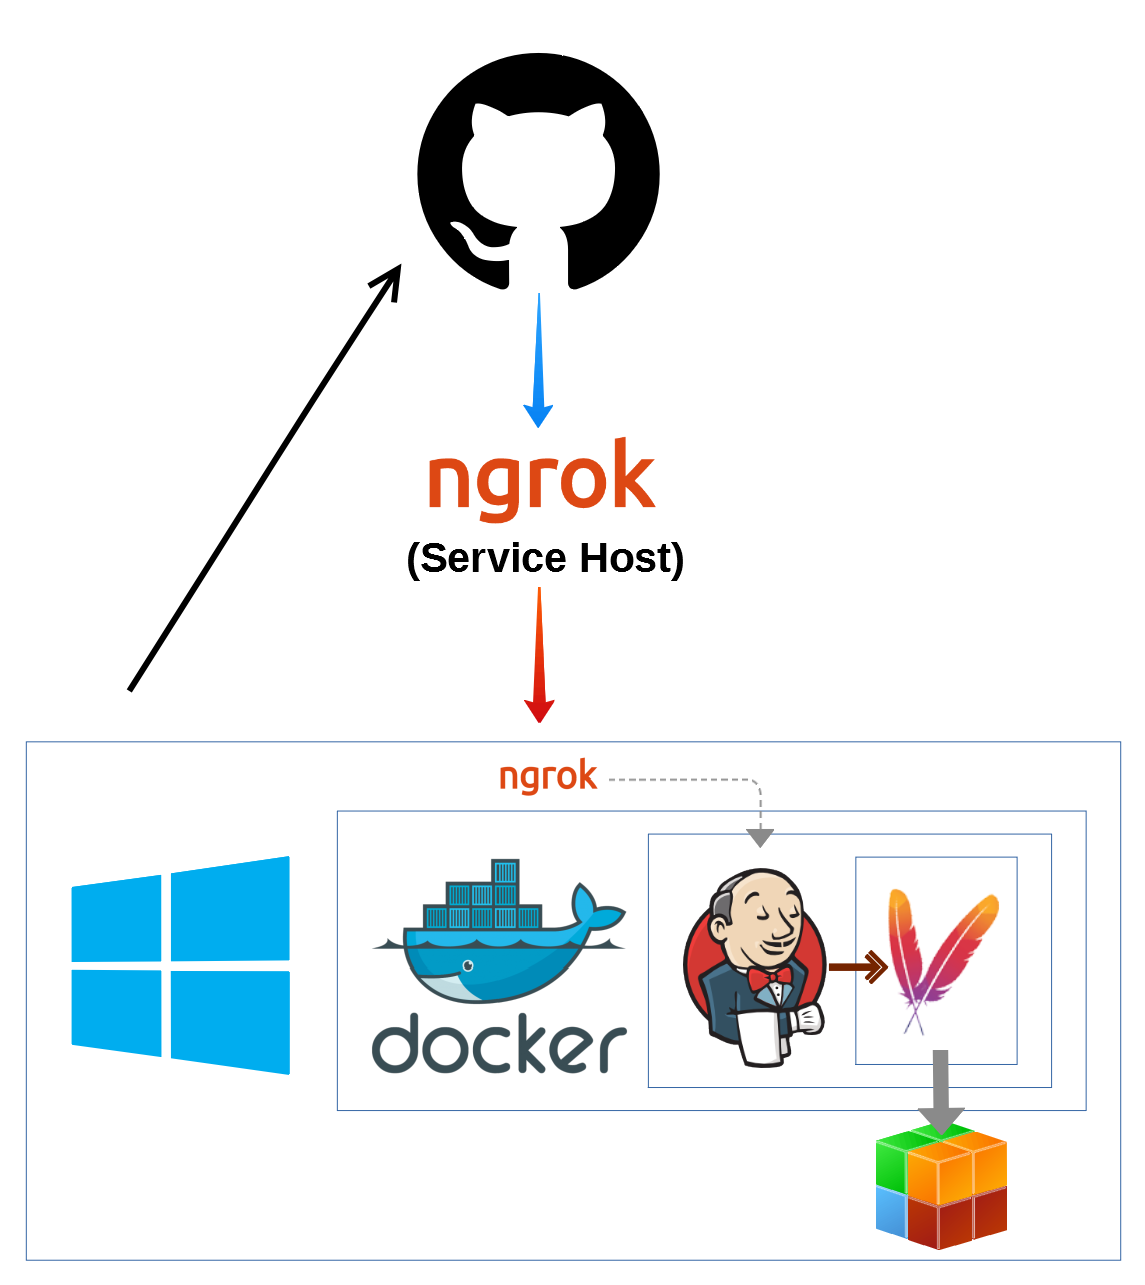
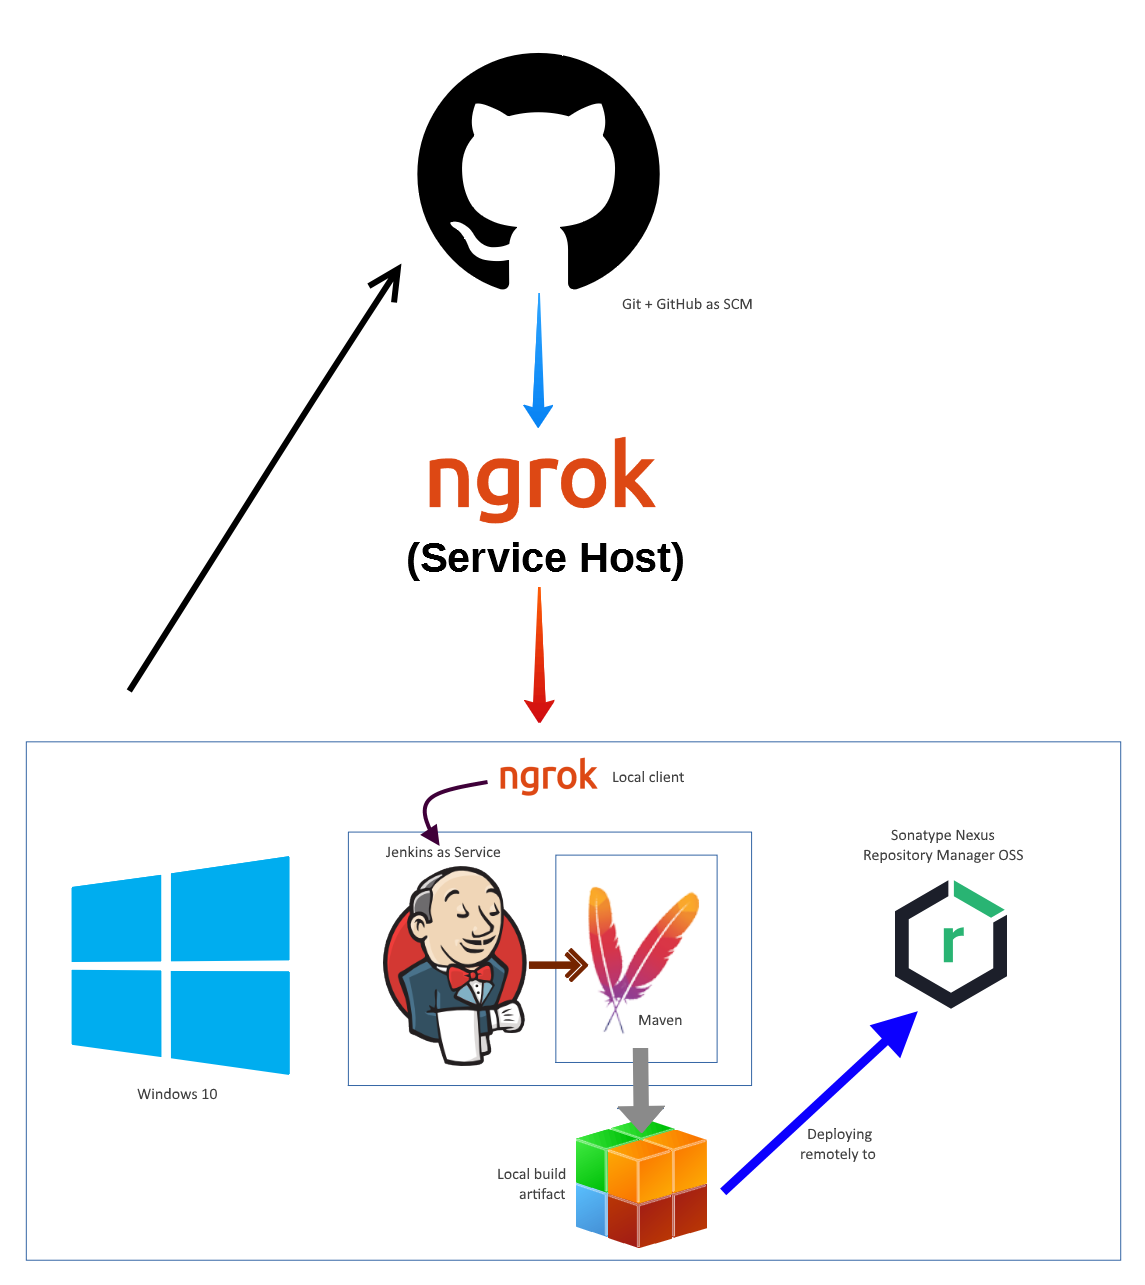
Updating documenting + TechStack

diff --git a/README.md b/README.md
@@ -4,15 +4,11 @@
 - [Introduction](#introduction)
   - [Setup](#setup)
     - [Docker](#docker)
-    - [Jenkins for Docker](#jenkins-for-docker)
-    - [Jenkins Bind Mount](#jenkins-bind-mount)
-    - [Final Tweaks](#final-tweaks)
-    - [Review](#review)
-    - [Accessing the Container](#accessing-the-container)
+    - [Jenkins](#jenkins)
 - [Logging In](#logging-in)
 - [Architecture](#architecture)
   - [Tools Used](#tools-used)
-    - [Jenkins](#jenkins)
+    - [Jenkins](#jenkins-1)
     - [Maven](#maven)
     - [Git and GitHub](#git-and-github)
     - [ngrok](#ngrok)
@@ -24,86 +20,15 @@ This repository will be a testing ground for installing, configuring, and learni
 ## Setup
 
 ### Docker
-I've installed Docker Desktop (for Windows) to fully leverage a containerized development experience. 
+I've installed Docker Desktop (for Windows) to fully leverage a containerized development experience down the road. 
 
-### Jenkins for Docker
-I am currently using the Docker image for [jenkins/jenkins:latest](https://hub.docker.com/r/jenkins/jenkins). The official repository is now considered deprecated, with the community maintaining for LTS and future releases.
+### Jenkins
 
-To pull the latest image in your Docker environment, you can use the following:
-
-`docker pull jenkins/jenkins`
-
-### Jenkins Bind Mount
-
-I have created a folder on my host machine to maintain the Jenkins installation across container life shutdowns and restarts. The lets me keep the data external to the container process, and then mount into it as needed. This allows me to seamlessly map data on my machine into a Docker container. 
-
-To replicate, you should determine a folder on your host machine and designate it as the source. Then when creating the container: 
-
-`docker run -d -u 1000 -v {JENKINS_HOME}:/var/jenkins_home -p 8080:8080 -p 50000:50000 jenkins/jenkins:latest`
-
-In my case, I ran the following: 
-
-`docker run -d -u 1000 -v "D:\var\jenkins_home":/var/jenkins_home -p 8080:8080 -p 50000:50000 jenkins/jenkins:latest`
-
-> Note: Because I am using Docker for Windows, I need to wrap some of the paths as original Windows paths. Also, due to permissions issues I have to pass the user ID 1000 in the run command, as the default jenkins user is ID 1000. I decided to use a bind mount to choose an explicit path based on my local storage. Otherwise, I could have let Docker create a volume and manage it. 
-
-### Final Tweaks
-
-For the ease of referring to the container, I stopped and renamed it to `my_jenkins`: 
-
-`docker rename {randomly_generated} my_jenkins`
-
-Finally, to make sure that `my_jenkins` starts and stays running when my Docker Desktop loads, I modified the restart policy: 
-
-`docker update --restart always my_jenkins`
-
-A restart policy of [always](https://docs.docker.com/config/containers/start-containers-automatically/) will ensure that the container is restarted except when manually stopped. This means that when my Docker daemon restarts (or boots for the first time), the jenkins service should start up automatically. 
-
-All of this information and more can be found at the official [Jenkins for Docker](https://github.com/jenkinsci/docker/blob/master/README.md) documentation. 
-
-### Review
-
-If we review and inspect the container, we should see that it is running: 
-
-```
-$ docker container ls
-CONTAINER ID        IMAGE                    COMMAND                  CREATED             STATUS              PORTS                                              NAMES
-3f810d1988ac        jenkins/jenkins:latest   "/sbin/tini -- /usr/…"   22 hours ago        Up 20 hours         0.0.0.0:8080->8080/tcp, 0.0.0.0:50000->50000/tcp   my_jenkins
-```
-
-And has the appropriate parameters for bind mount and restart policy:
-
-```
-"Mounts": [
-    {
-        "Type": "bind",
-        "Source": "/host_mnt/d/var/jenkins_home",
-        "Destination": "/var/jenkins_home",
-        "Mode": "",
-        "RW": true,
-        "Propagation": "rprivate"
-    }
-],
-
----
-
-"RestartPolicy": {
-    "Name": "always",
-    "MaximumRetryCount": 0
-},
-```
-
-### Accessing the Container
-
-If we ever need to hop into the container's linux environment, we can do so with bash: 
-
-`$ winpty docker exec -it my_jenkins bin/bash`
-
-> Note: `winpty` is a necessary wrapper because I am using GitBash for Windows
+At this time I have switched to using Jenkins as a Windows Service due to some issues I was encountering with Jenkins in Docker, Maven, and the Nexus integration
 
 # Logging In
 
-The Docker container will expose Jenkins over port 8080 on your localhost based on the default configurations. For the purposes of learning Jenkins, I'm left this as default. The first time you access localhost 8080 you'll be prompted to login with the admin password and then configure plugins/add another admin user.
+Jenkins will run on port 8080 on your localhost based on the default configurations. For the purposes of learning Jenkins, I'm left this as default. The first time you access localhost 8080 you'll be prompted to login with the admin password and then configure plugins/add another admin user.
 
 I've already made it through these steps, using the very creative **jenkins** username.
 
@@ -136,7 +61,7 @@ Jenkins is the current automation server for our CI/CD loop.
 
 #### Platform
 
-I'm currently running Jenkins on Docker Desktop for Windows via the `jenkins/jenkins:lts` image from Docker Hub. It runs locally and exposes an endpoint on port 8080
+I'm currently running Jenkins on Windows as a Windows service. It runs locally and exposes an endpoint on port 8080
 
 #### Responsibilities
 
@@ -150,7 +75,7 @@ Maven is the primary build automation tool for our projects. We'll create Java M
 
 #### Platform
 
-Maven is installed directly in our Jenkins Docker container, and configured from the Jenkins dashboard. 
+Maven is installed directly in our Jenkins box, and configured from the Jenkins dashboard. 
 
 #### Responsibilities
 
